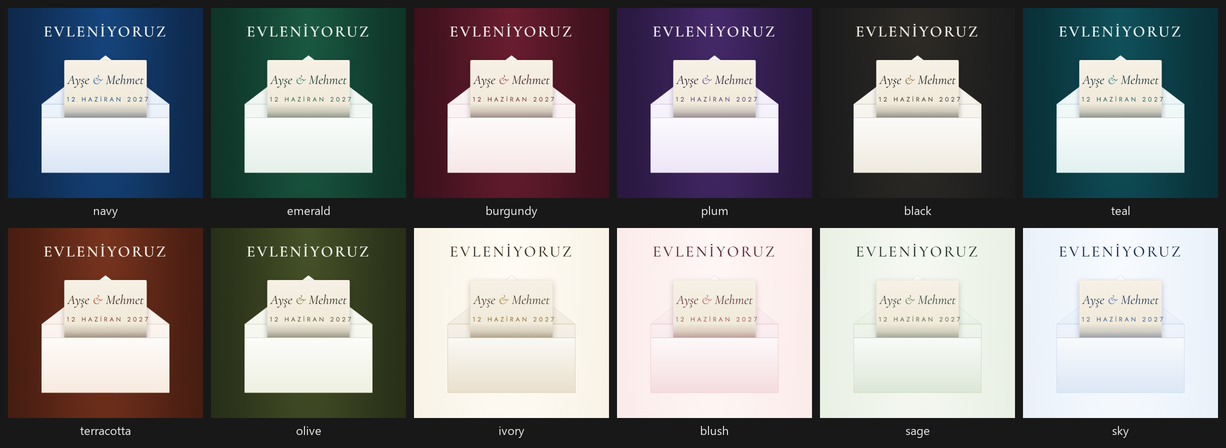
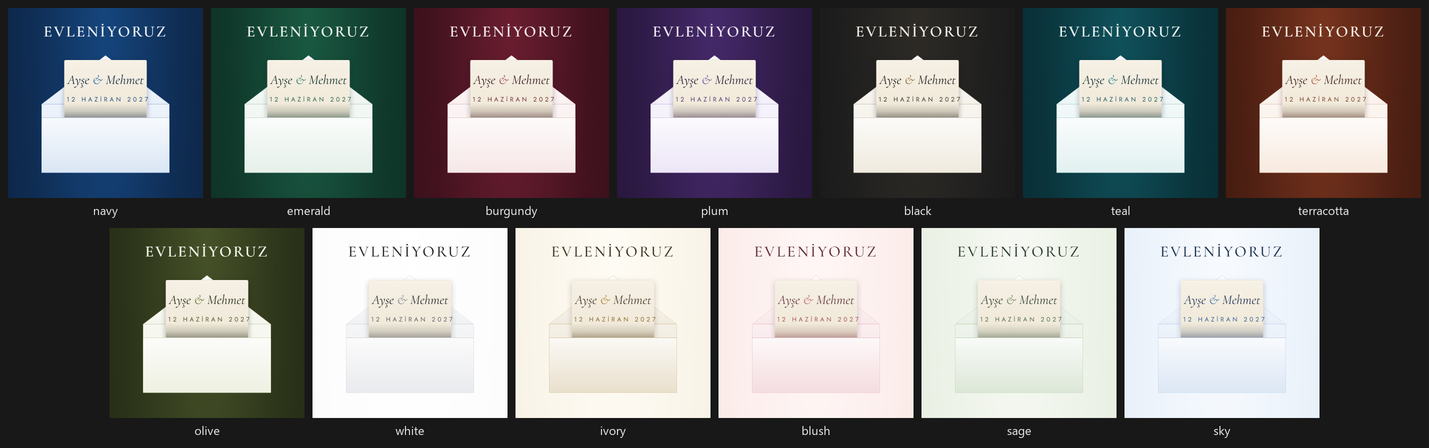
feat: add white & silver theme

diff --git a/src/themes.css b/src/themes.css
@@ -30,6 +30,7 @@
 }
 
 /* Açık temalar için ortak ayarlar · shared settings for light themes */
+[data-theme='white'],
 [data-theme='ivory'],
 [data-theme='blush'],
 [data-theme='sage'],
@@ -147,6 +148,23 @@
 }
 
 /* ───────────── Açık temalar · Light themes ───────────── */
+
+/* Beyaz & gümüş · White & silver */
+[data-theme='white'] {
+  --c-bosphorus: 255 255 255;
+  --c-deep: 253 253 253;
+  --c-ink: 248 248 249;
+  --c-night: 236 237 239;
+  --c-porcelain: 33 33 36;
+  --c-mist: 96 98 104;
+  --c-corn: 112 116 124;
+  --c-bloom: 170 174 180;
+  --c-azure: 140 144 152;
+  --c-paper-ink: 33 33 36;
+  --c-paper-accent: 96 98 104;
+  --c-tint: 215 217 222;
+  --c-shadow: 60 62 68;
+}
 
 /* Fildişi & altın · Ivory & gold */
 [data-theme='ivory'] {

diff --git a/scripts/invitation-plugin.js b/scripts/invitation-plugin.js
@@ -12,7 +12,7 @@ const LANGUAGES = ['tr', 'en']
 // Must match the [data-theme] blocks in src/themes.css
 const THEMES = [
   'navy', 'emerald', 'burgundy', 'plum', 'black', 'teal', 'terracotta', 'olive', // dark
-  'ivory', 'blush', 'sage', 'sky', // light
+  'white', 'ivory', 'blush', 'sage', 'sky', // light
 ]
 
 class ConfigError extends Error {}

diff --git a/README.md b/README.md
@@ -12,7 +12,7 @@ Bilgisayarınıza hiçbir şey kurmadan, tamamen tarayıcıdan kurulup **ücrets
 
 **Bölümler:** zarf + isimler + tarih → aileler + geri sayım → program akışı →
 tarih/saat/mekan + harita → katılım formu → fotoğraf paylaşım linki + teşekkür.
-Türkçe ve İngilizce hazır gelir, **12 renk teması** (8 koyu, 4 açık zeminli) arasından seçim yapılabilir.
+Türkçe ve İngilizce hazır gelir, **13 renk teması** (8 koyu, 5 açık zeminli) arasından seçim yapılabilir.
 
 ---
 
@@ -87,7 +87,7 @@ Tablonun sütunları: *Zaman Damgası · İsim · Soyisim · Katılım Durumu ·
 | Alan | Açıklama | Örnek |
 |---|---|---|
 | `language` | Sayfa dili: `tr` veya `en` | `tr` |
-| `theme` | Renk teması: 12 seçenekten biri ([aşağıya bakın](#-renk-teması)) | `emerald` |
+| `theme` | Renk teması: 13 seçenekten biri ([aşağıya bakın](#-renk-teması)) | `emerald` |
 | `couple.name1`, `couple.name2` | Çiftin isimleri | `Ayşe`, `Mehmet` |
 | `date` | Düğün tarihi, **YIL-AY-GÜN** | `2027-06-12` |
 | `time` | Düğün saati, **tırnak içinde** | `"19:00"` |
@@ -112,11 +112,11 @@ ikonlar, çerçeveler, butonlar) seçtiğiniz renge göre değişir.
 
 | Koyu zemin | Renk | Açık zemin | Renk |
 |---|---|---|---|
-| `navy` | Gece mavisi (varsayılan) | `ivory` | Fildişi & altın |
-| `emerald` | Zümrüt yeşili & altın | `blush` | Pudra pembesi & gül |
-| `burgundy` | Bordo & gül altını | `sage` | Adaçayı yeşili |
-| `plum` | Mürdüm & lavanta | `sky` | Buz mavisi |
-| `black` | Siyah & altın | | |
+| `navy` | Gece mavisi (varsayılan) | `white` | Beyaz & gümüş |
+| `emerald` | Zümrüt yeşili & altın | `ivory` | Fildişi & altın |
+| `burgundy` | Bordo & gül altını | `blush` | Pudra pembesi & gül |
+| `plum` | Mürdüm & lavanta | `sage` | Adaçayı yeşili |
+| `black` | Siyah & altın | `sky` | Buz mavisi |
 | `teal` | Petrol mavisi & bakır | | |
 | `terracotta` | Kiremit & krem | | |
 | `olive` | Zeytin yeşili & keten | | |

diff --git a/README.en.md b/README.en.md
@@ -12,7 +12,7 @@ You set it up entirely in the browser, with nothing to install, and host it **fo
 
 **Sections:** envelope with names and date → families and a countdown → schedule →
 date, time and venue with a map → RSVP form → photo sharing link and a thank-you note.
-Turkish and English are built in, and you can choose from **12 color themes** (8 dark, 4 light).
+Turkish and English are built in, and you can choose from **13 color themes** (8 dark, 5 light).
 
 ---
 
@@ -87,7 +87,7 @@ Sheet columns: *Timestamp · First name · Last name · Attending · Guests · P
 | Field | Description | Example |
 |---|---|---|
 | `language` | Page language: `tr` or `en` | `en` |
-| `theme` | Color theme: one of 12 options ([see below](#-color-theme)) | `emerald` |
+| `theme` | Color theme: one of 13 options ([see below](#-color-theme)) | `emerald` |
 | `couple.name1`, `couple.name2` | The couple's names | `Emma`, `James` |
 | `date` | Wedding date, **YEAR-MONTH-DAY** | `2027-06-12` |
 | `time` | Wedding time, **in quotes** | `"19:00"` |
@@ -112,11 +112,11 @@ envelope, icons, frames and buttons) changes to match.
 
 | Dark | Colors | Light | Colors |
 |---|---|---|---|
-| `navy` | Midnight navy (default) | `ivory` | Ivory & gold |
-| `emerald` | Emerald & gold | `blush` | Blush & rose |
-| `burgundy` | Burgundy & rose gold | `sage` | Sage green |
-| `plum` | Plum & lavender | `sky` | Ice blue |
-| `black` | Black & gold | | |
+| `navy` | Midnight navy (default) | `white` | White & silver |
+| `emerald` | Emerald & gold | `ivory` | Ivory & gold |
+| `burgundy` | Burgundy & rose gold | `blush` | Blush & rose |
+| `plum` | Plum & lavender | `sage` | Sage green |
+| `black` | Black & gold | `sky` | Ice blue |
 | `teal` | Teal & copper | | |
 | `terracotta` | Terracotta & cream | | |
 | `olive` | Olive & linen | | |
